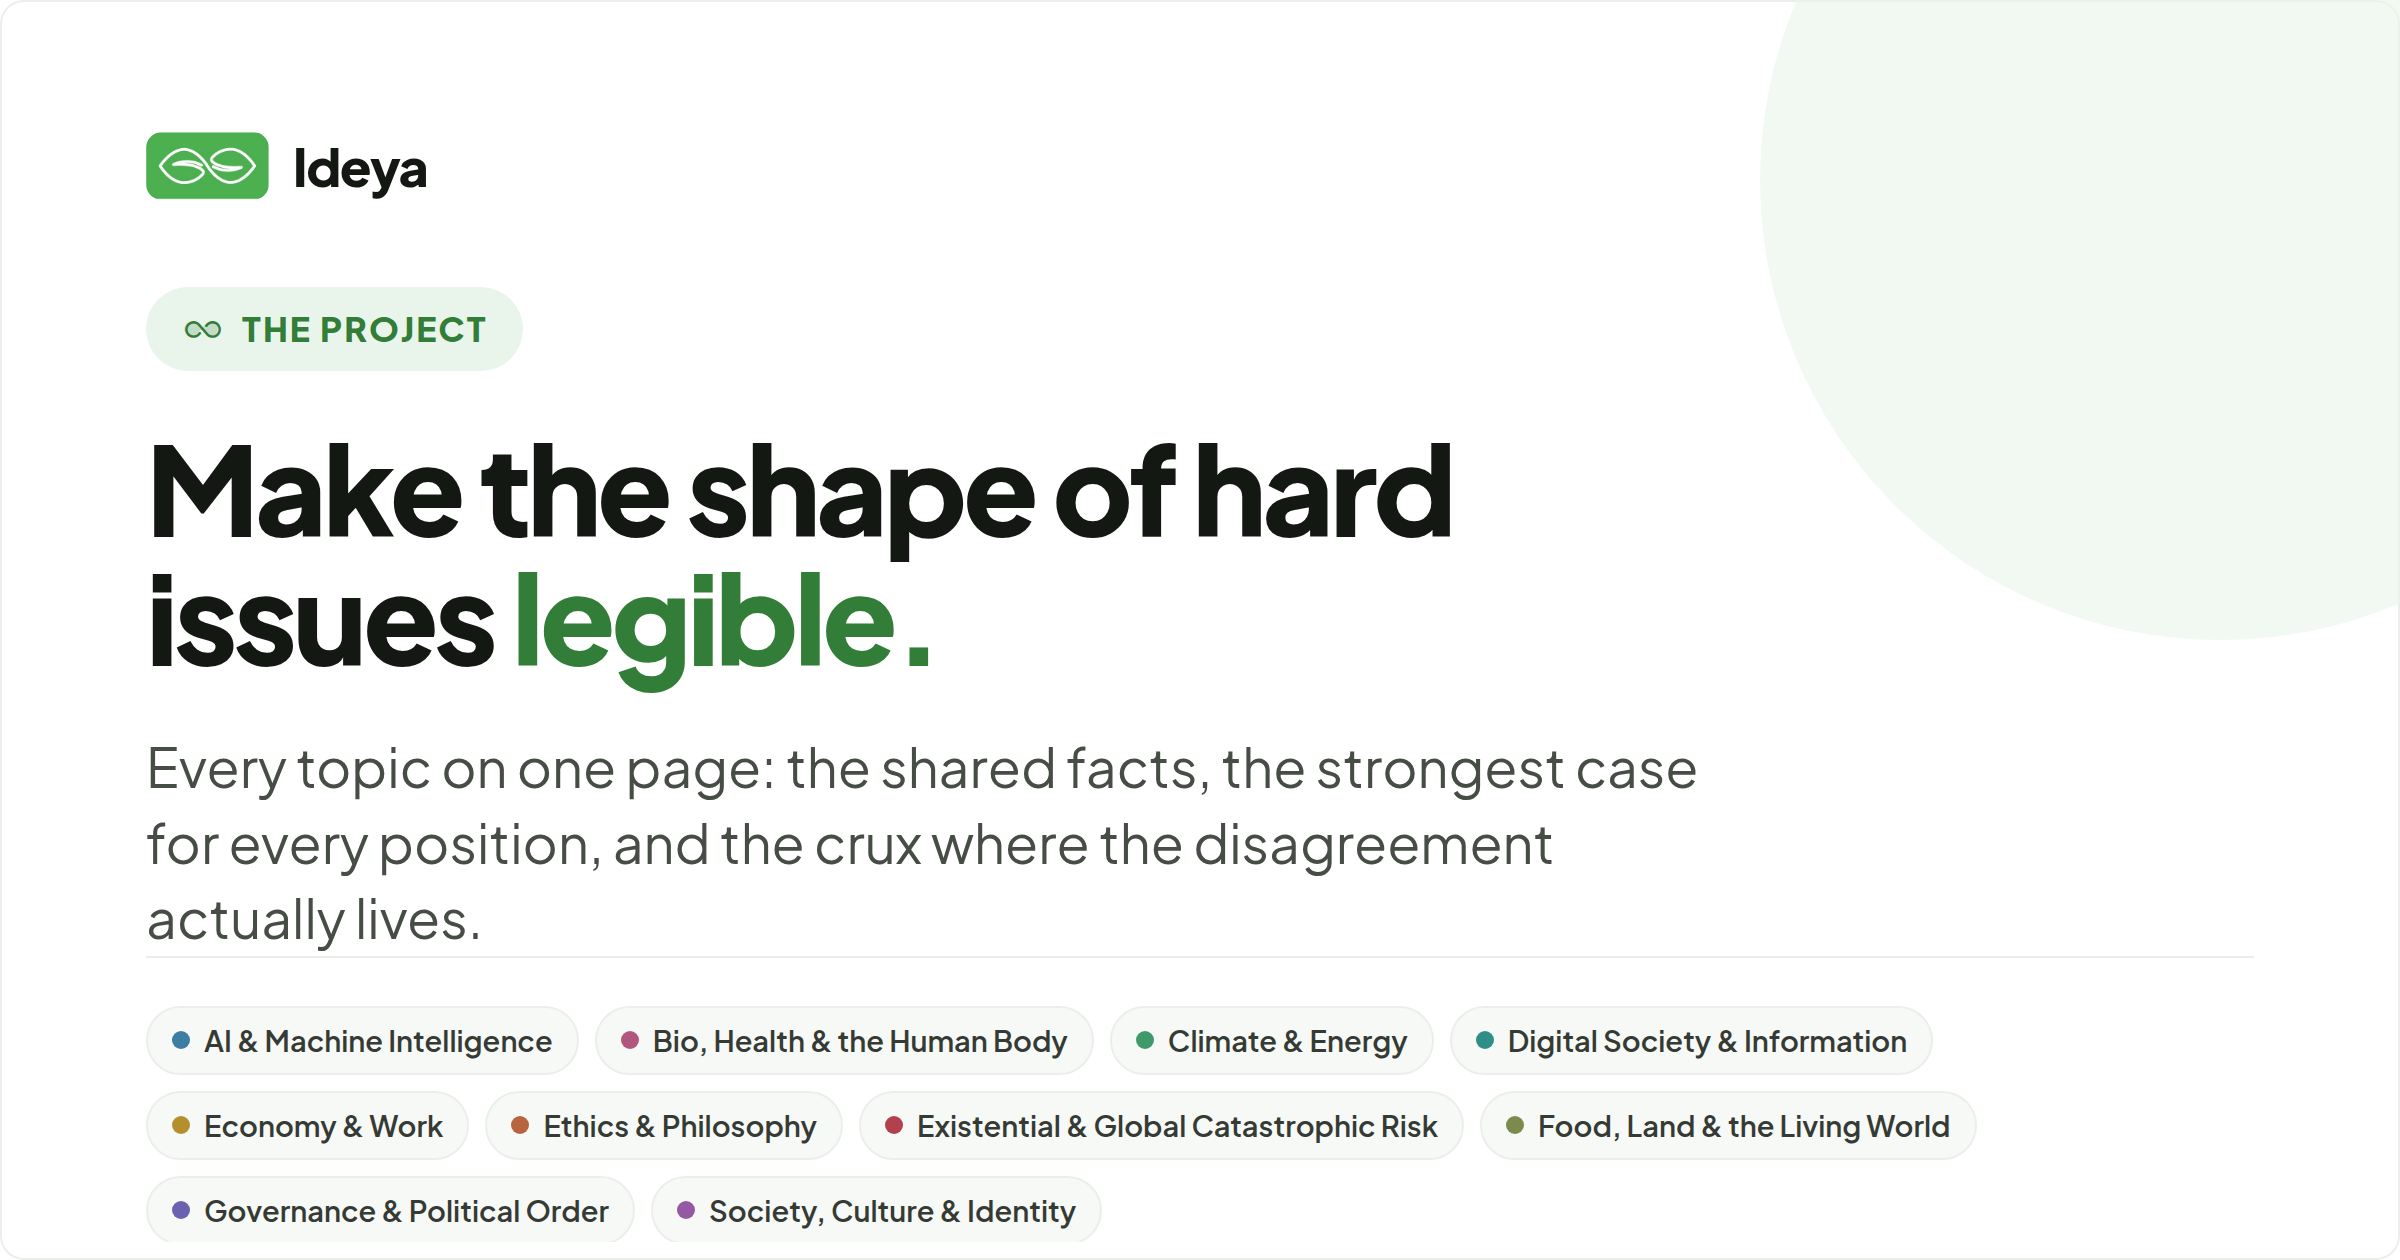
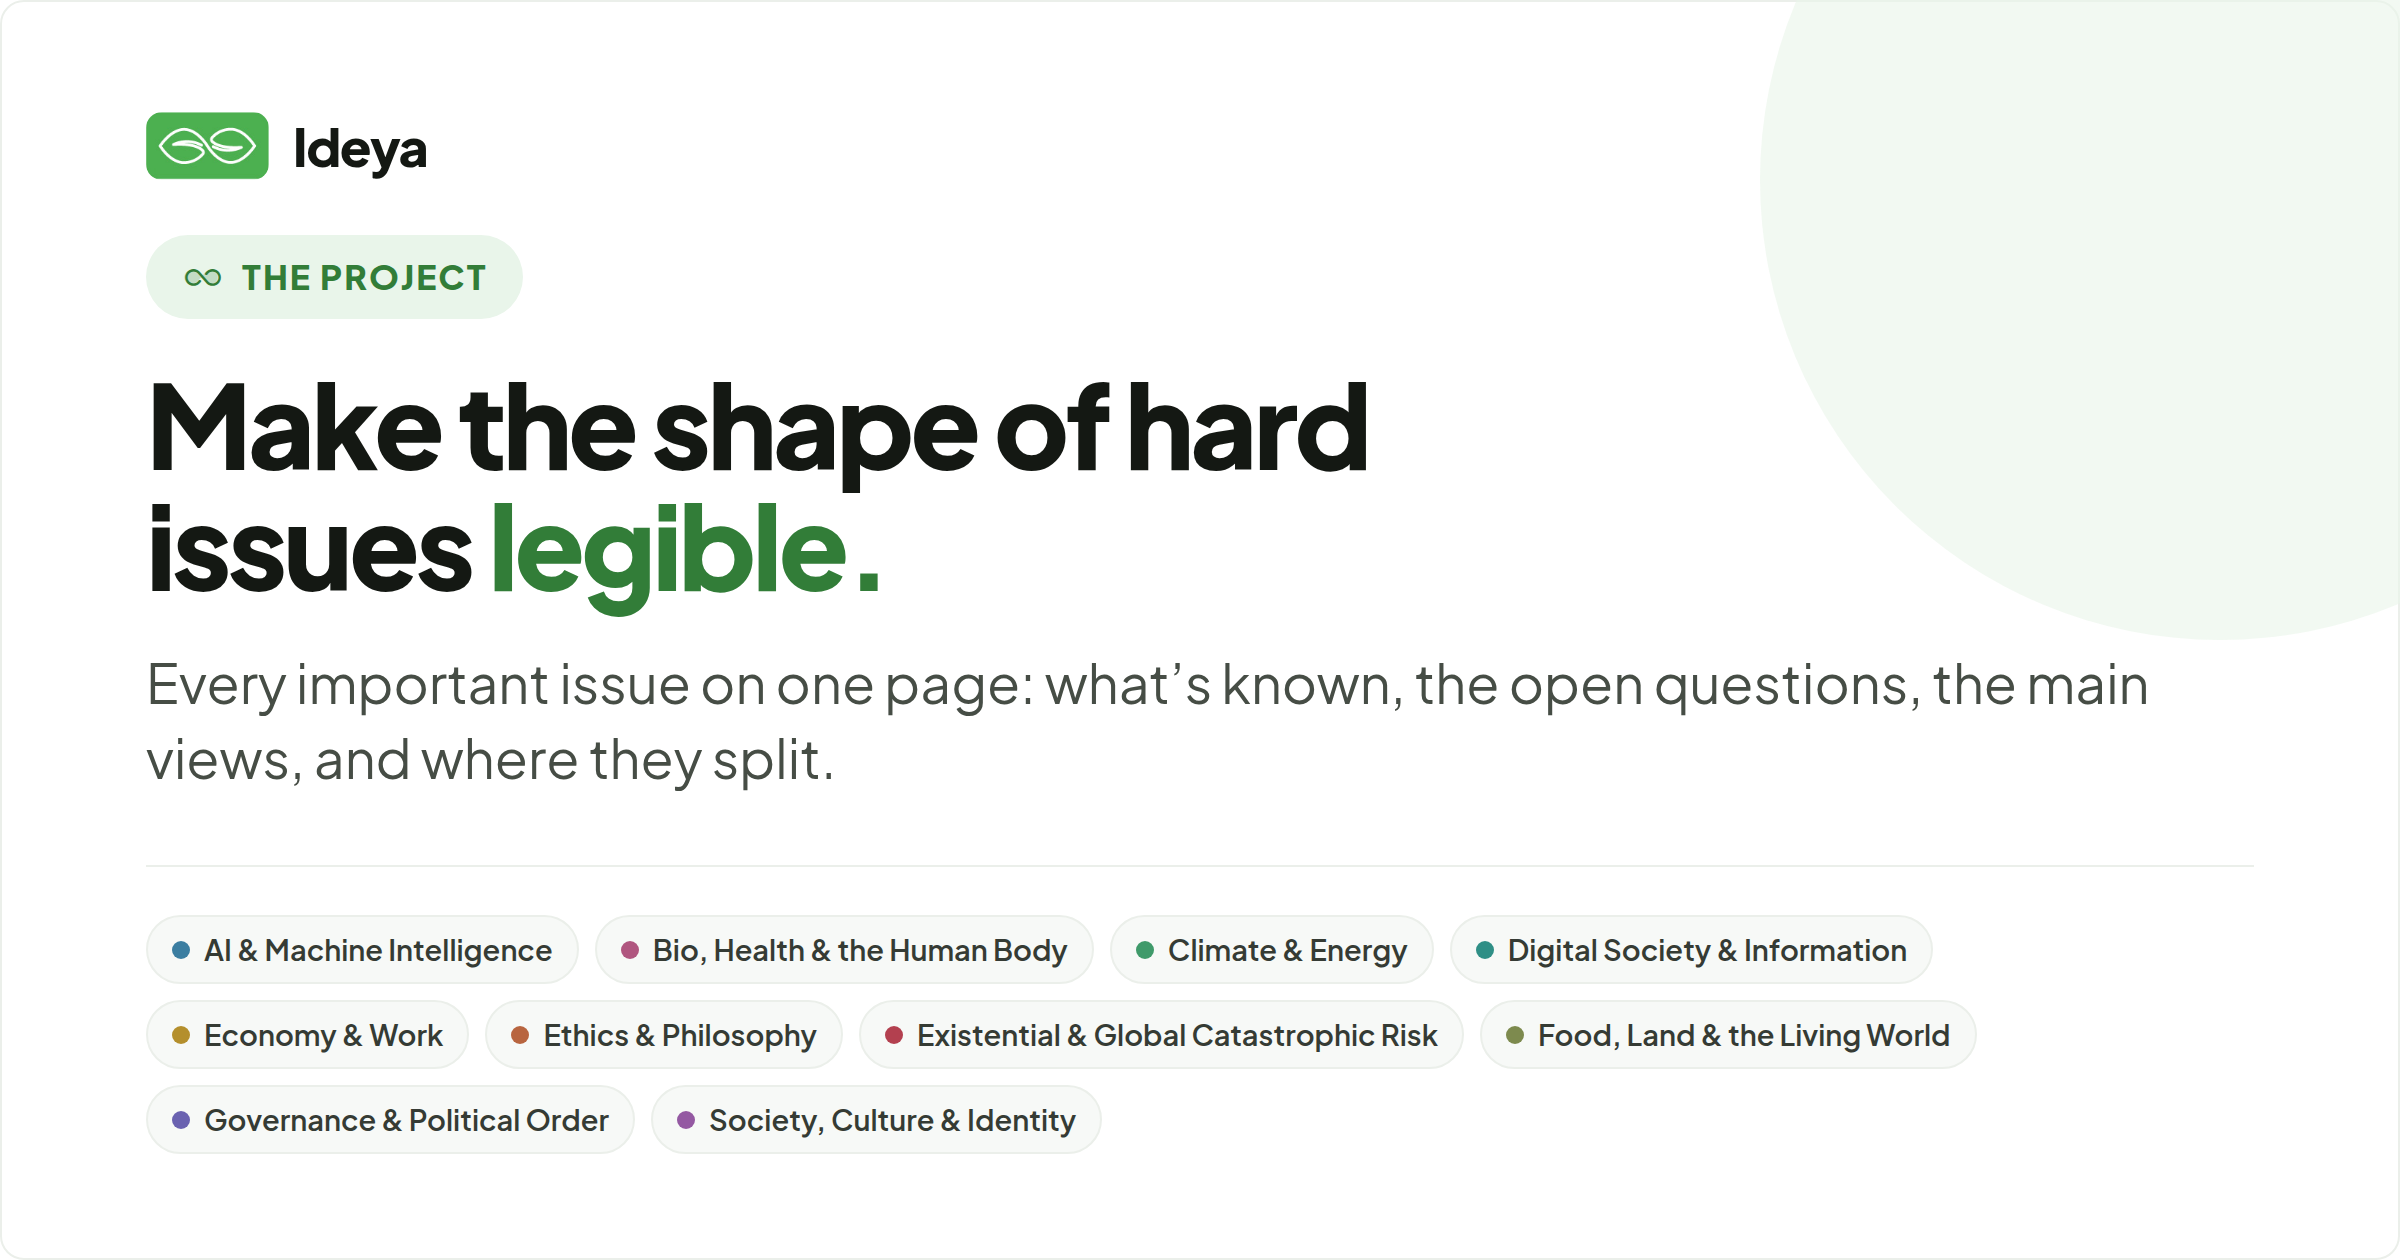
Site share card: every category chip fits; subtitle off the debate framing
The third chip row was clipped and the divider crowded the subtitle. Tighter
vertical rhythm and a two-line subtitle ("Every important issue on one page:
what's known, the open questions, the main views, and where they split.").

diff --git a/templates/topics/site_share.html b/templates/topics/site_share.html
@@ -12,19 +12,19 @@
   body.card-only{padding:0;background:#fff;display:block}
   body.card-only .card{position:static;box-shadow:none}
 
-  .card{width:1200px;height:630px;flex:none;background:#fff;color:var(--ink-900);position:relative;overflow:hidden;display:flex;flex-direction:column;padding:62px 72px;box-shadow:0 20px 60px -24px rgba(20,22,15,.4)}
+  .card{width:1200px;height:630px;flex:none;background:#fff;color:var(--ink-900);position:relative;overflow:hidden;display:flex;flex-direction:column;padding:52px 72px;box-shadow:0 20px 60px -24px rgba(20,22,15,.4)}
   .card::before{content:"";position:absolute;right:-140px;top:-140px;width:460px;height:460px;border-radius:9999px;background:var(--green-tint);opacity:.6}
   .card>*{position:relative}
   .brand{display:flex;align-items:center;gap:12px}
   .brand .mark{height:34px;width:auto;border-radius:8px}
   .brand .wm{font-weight:800;font-size:26px;letter-spacing:-.03em}
-  .kicker{align-self:flex-start;display:inline-flex;align-items:center;gap:9px;margin-top:40px;font-weight:800;font-size:17px;text-transform:uppercase;letter-spacing:.06em;color:var(--accent-strong);background:var(--green-tint);border-radius:9999px;padding:8px 18px}
+  .kicker{align-self:flex-start;display:inline-flex;align-items:center;gap:9px;margin-top:24px;font-weight:800;font-size:17px;text-transform:uppercase;letter-spacing:.06em;color:var(--accent-strong);background:var(--green-tint);border-radius:9999px;padding:8px 18px}
   .kicker i{font-size:19px}
-  .headline{margin:26px 0 0;font-weight:800;font-size:62px;letter-spacing:-.035em;line-height:1.04;max-width:16ch}
+  .headline{margin:22px 0 0;font-weight:800;font-size:58px;letter-spacing:-.035em;line-height:1.04;max-width:16ch}
   .headline .hl{color:var(--accent-strong)}
-  .desc{margin:24px 0 0;font-size:27px;line-height:1.4;color:var(--ink-600);max-width:40ch;text-wrap:pretty}
+  .desc{margin:20px 0 24px;font-size:27px;line-height:1.4;color:var(--ink-600);max-width:54ch;text-wrap:pretty}
   .foot{margin-top:auto;display:flex;align-items:flex-start;gap:18px;padding-top:24px;border-top:1px solid var(--ink-100)}
-  .cchips{display:flex;gap:8px;flex-wrap:wrap;overflow:hidden;max-height:118px}
+  .cchips{display:flex;gap:8px;flex-wrap:wrap}
   .cchip{display:inline-flex;align-items:center;gap:7px;font-size:14.5px;font-weight:600;color:var(--ink-700);background:var(--ink-50);border:1px solid var(--ink-100);border-radius:9999px;padding:5px 12px;white-space:nowrap}
   .cchip .dot{width:9px;height:9px;border-radius:9999px;flex:none}
 </style>
@@ -34,7 +34,7 @@
     <div class="brand"><img class="mark" src="{% static 'img/ideya-mark.png' %}" alt="" /><span class="wm">Ideya</span></div>
     <span class="kicker"><i class="ph-duotone ph-infinity"></i>The project</span>
     <h1 class="headline">Make the shape of hard issues <span class="hl">legible.</span></h1>
-    <p class="desc">Every topic on one page: the shared facts, the strongest case for every position, and the crux where the disagreement actually lives.</p>
+    <p class="desc">Every important issue on one page: what’s known, the open questions, the main views, and where they split.</p>
     <div class="foot">
       <div class="cchips">
         {% for cat in categories %}<span class="cchip"><span class="dot" style="background:{{ cat.color_var }}"></span>{{ cat.name }}</span>{% endfor %}
